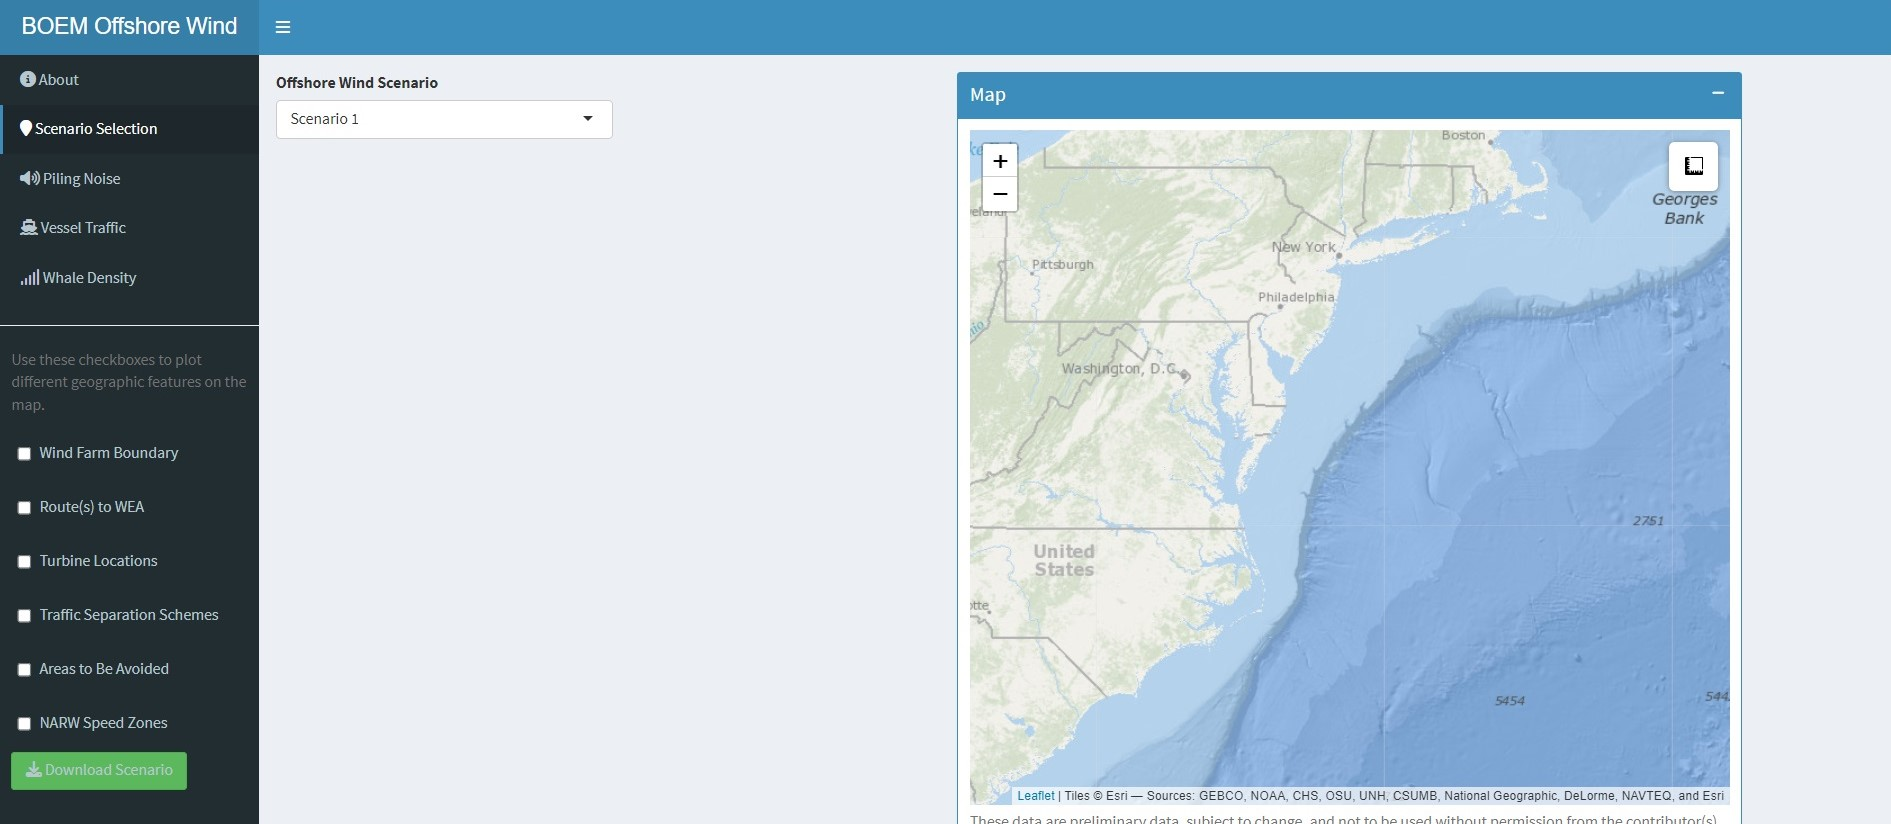
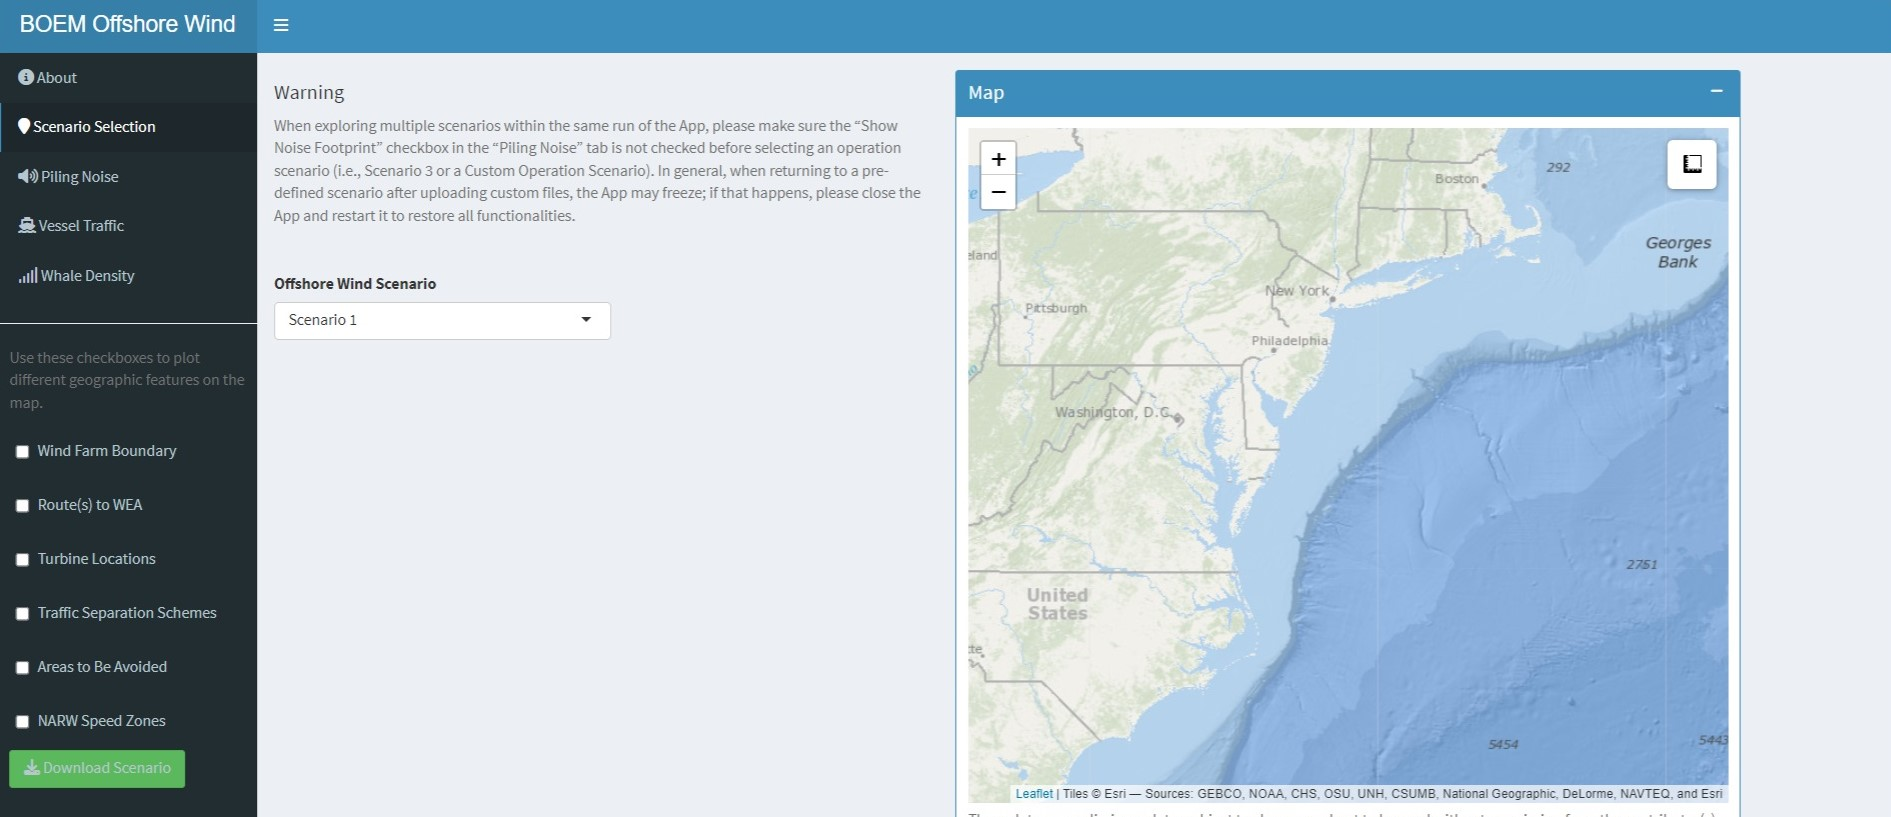
Update vignette

diff --git a/docs/articles/scenarios.html b/docs/articles/scenarios.html
@@ -89,7 +89,7 @@
 Rob Schick, Enrico Pirotta, Catriona Harris, Len Thomas</h4>
             <address class="author_afil">
       Centre for Research into Ecological &amp; Environmental Modelling,
-University of St Andrews<br><h4 data-toc-skip class="date">2024-04-30</h4>
+University of St Andrews<br><h4 data-toc-skip class="date">2024-05-07</h4>
       
       
       <div class="hidden name"><code>scenarios.Rmd</code></div>
@@ -292,8 +292,7 @@ is an abridged representation of the structure of
 <span><span class="co">#&gt;   .. ..   route = <span style="color: #00BB00;">col_integer()</span>,</span></span>
 <span><span class="co">#&gt;   .. ..   speed_knt = <span style="color: #00BB00;">col_integer()</span>,</span></span>
 <span><span class="co">#&gt;   .. ..   Nvessels = <span style="color: #00BB00;">col_integer()</span>,</span></span>
-<span><span class="co">#&gt;   .. ..   roundtrips_foundation = <span style="color: #00BB00;">col_double()</span>,</span></span>
-<span><span class="co">#&gt;   .. ..   .delim = ","</span></span>
+<span><span class="co">#&gt;   .. ..   roundtrips_foundation = <span style="color: #00BB00;">col_double()</span></span></span>
 <span><span class="co">#&gt;   .. .. )</span></span>
 <span><span class="co">#&gt;   ..- attr(*, "problems")=&lt;externalptr&gt; </span></span>
 <span><span class="co">#&gt;   ..- attr(*, ".internal.selfref")=&lt;externalptr&gt; </span></span>
@@ -402,7 +401,7 @@ package</p></li>
 <div class="section level3">
 <h3 id="scenario-set-up">Scenario set up<a class="anchor" aria-label="anchor" href="#scenario-set-up"></a>
 </h3>
-<p>First, start by clicking on the <code>Scenario Seletion</code> tab.
+<p>First, start by clicking on the <code>Scenario Selection</code> tab.
 The central text area will change to reveal several drop-down menus
 (Figure 2.6).</p>
 <p>To adapt one of the pre-defined scenarios, choose either
@@ -417,9 +416,11 @@ the bioenergetic model upon closing the app window.</p>
 <p>To define a custom scenario, choose <code>Custom Scenario</code>.
 Three new fields will appear, allowing the user to upload files for the
 piling locations and timings, the vessel routes, and the vessel
-information table that underpin the scenario they wish to explore. An
-additional drop-down menu will also be available to indicate whether the
-custom scenario relates to construction or operation activities. This is
+information table that underpin the scenario they wish to explore.
+Please note that uploading custom vessel routes requires the selection
+of all files that comprise a shapefile (usually four). An additional
+drop-down menu will also be available to indicate whether the custom
+scenario relates to construction or operation activities. This is
 important, as it ensures that the scenario object is correctly labeled.
 The custom scenario can then be viewed in the same way as the
 pre-defined scenarios, and scenario parameters can be modified using the
@@ -463,9 +464,19 @@ of vessels in that class), <code>roundtrips_foundation</code> (the
 number of round trips per foundation) and <code>routeID</code>
 (reporting two values separated by a dash: the wind farm number and the
 route number therein; e.g. 1-2 for route 2 for wind farm 1).</p>
+<blockquote>
+<p><strong>Note 2.3:</strong> When exploring multiple scenarios within
+the same run of the App, please make sure the
+<code>Show Noise Footprint</code> checkbox in the
+<code>Piling Noise</code> tab is not checked before selecting an
+operation scenario (i.e., Scenario 3 or a Custom Operation Scenario). In
+general, when returning to a pre-defined scenario after uploading custom
+files, the App may freeze; if that happens, please close the App and
+restart it to restore all functionalities.</p>
+</blockquote>
 </div>
 <div class="section level3">
-<h3 id="piling-noise">Piling noise<a class="anchor" aria-label="anchor" href="#piling-noise"></a>
+<h3 id="piling-noise">Piling Noise<a class="anchor" aria-label="anchor" href="#piling-noise"></a>
 </h3>
 <p>The acoustic footprint of pile-driving can be visualized as a
 circular buffer centered on a given piling location. Buffer boundaries
@@ -527,7 +538,7 @@ reflected in the final R object that will be used in the bioenergetic
 model.</p>
 </div>
 <div class="section level3">
-<h3 id="vessel-traffic">Vessel traffic<a class="anchor" aria-label="anchor" href="#vessel-traffic"></a>
+<h3 id="vessel-traffic">Vessel Traffic<a class="anchor" aria-label="anchor" href="#vessel-traffic"></a>
 </h3>
 <p>The vessel traffic tab allows the user to visualize and modify the
 vessel strike risk surface that is used in the bioenergetics model.
@@ -538,13 +549,11 @@ cell. Total PLETH is scaled to obtain daily strike probabilities for use
 in the agent-based bioenergetics model. Further details on the
 calculation of this metric can be found in the accompanying project
 report.</p>
-<p>Ticking the <code>Vessel strike risk</code> checkbox prompts the user
+<p>Ticking the <code>Vessel Strike Risk</code> checkbox prompts the user
 to choose whether they wish to display a baseline vessel strike risk
 layer or a scenario vessel strike risk layer (relating to the scenario
 selected on the Scenario Selection tab). The user should also select
-which month they wish to visualize. The <code>Update map</code> button
-should be clicked to display the selected vessel strike risk
-surface.</p>
+which month they wish to visualize.</p>
 <p>The table on this tab can be fully visualized by minimizing the map.
 The table allows the user to specify the number of vessels (Nvessels),
 speed in knots (speed_knt) and number of round trips per foundation
@@ -552,7 +561,7 @@ speed in knots (speed_knt) and number of round trips per foundation
 associated with each windfarm site and; please note that other columns
 in this table should not be modified. Values in the table can be changed
 by clicking on the relevant cell. Changes can be visualized on the map
-by clicking the <code>Update map</code> button at the bottom.</p>
+by clicking the <code>Update Map</code> button at the bottom.</p>
 </div>
 <div class="section level3">
 <h3 id="whale-density">Whale Density<a class="anchor" aria-label="anchor" href="#whale-density"></a>
